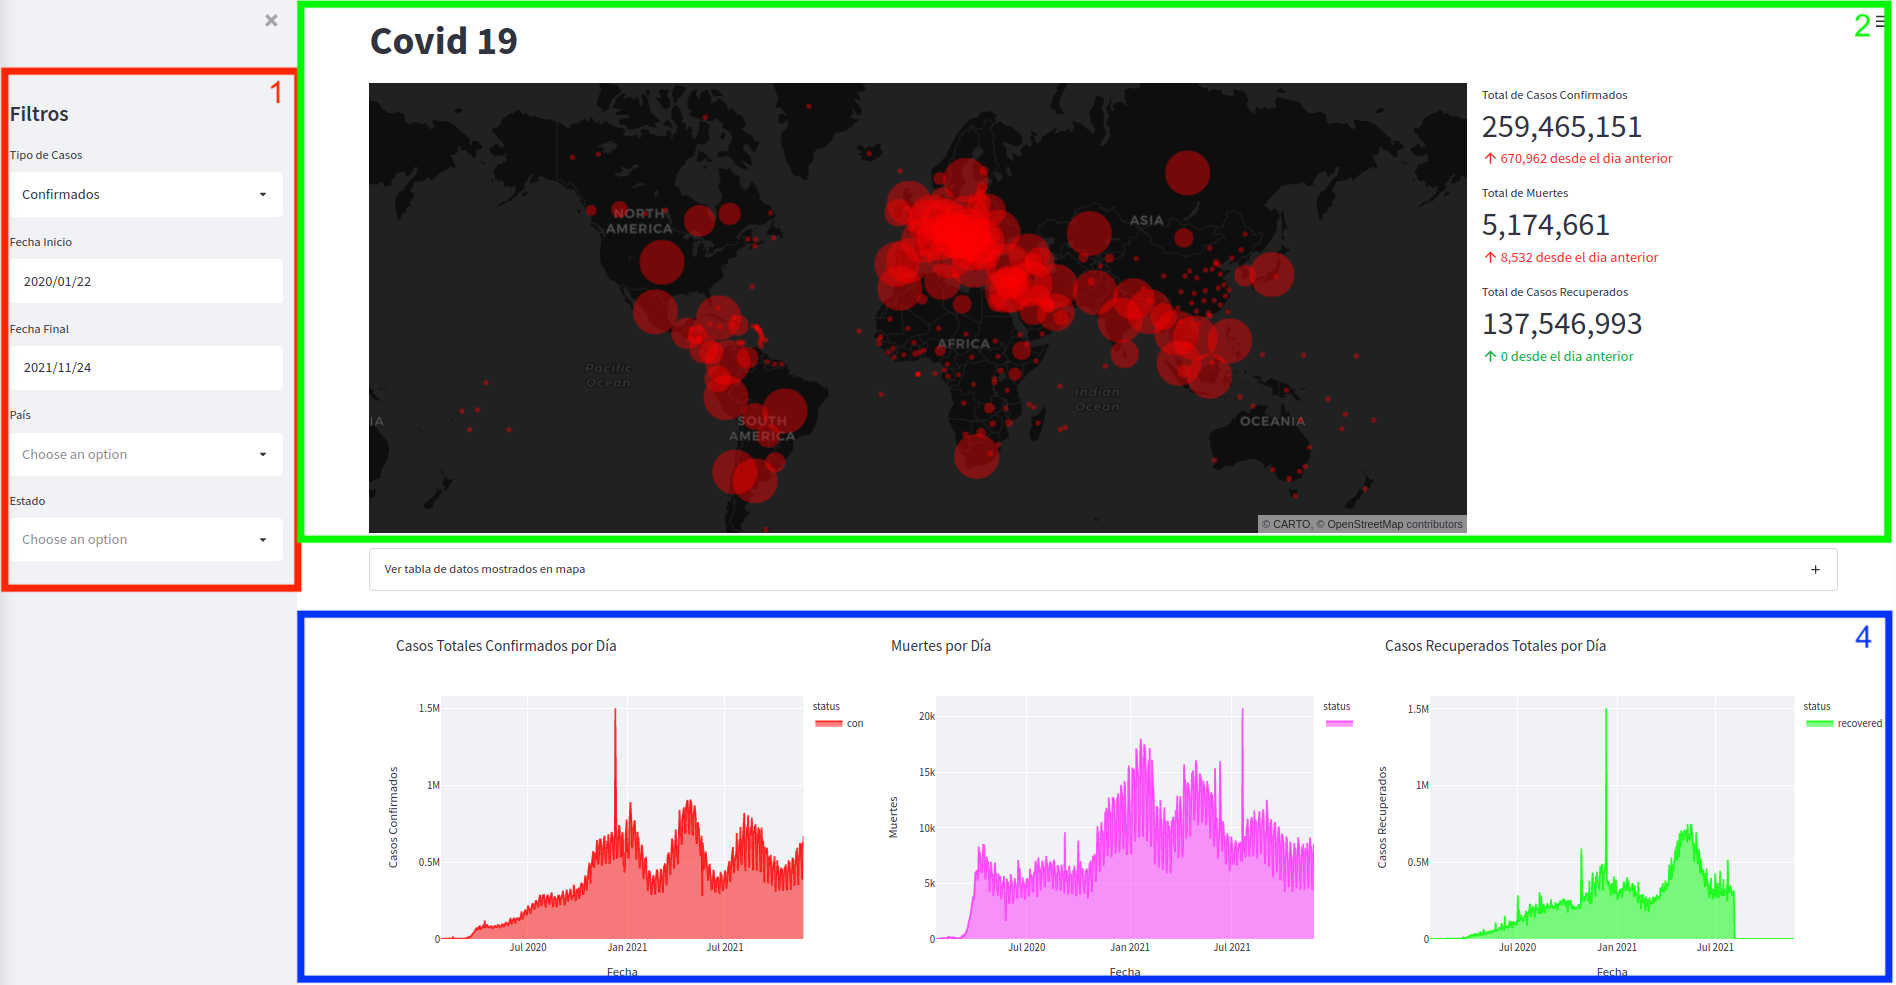
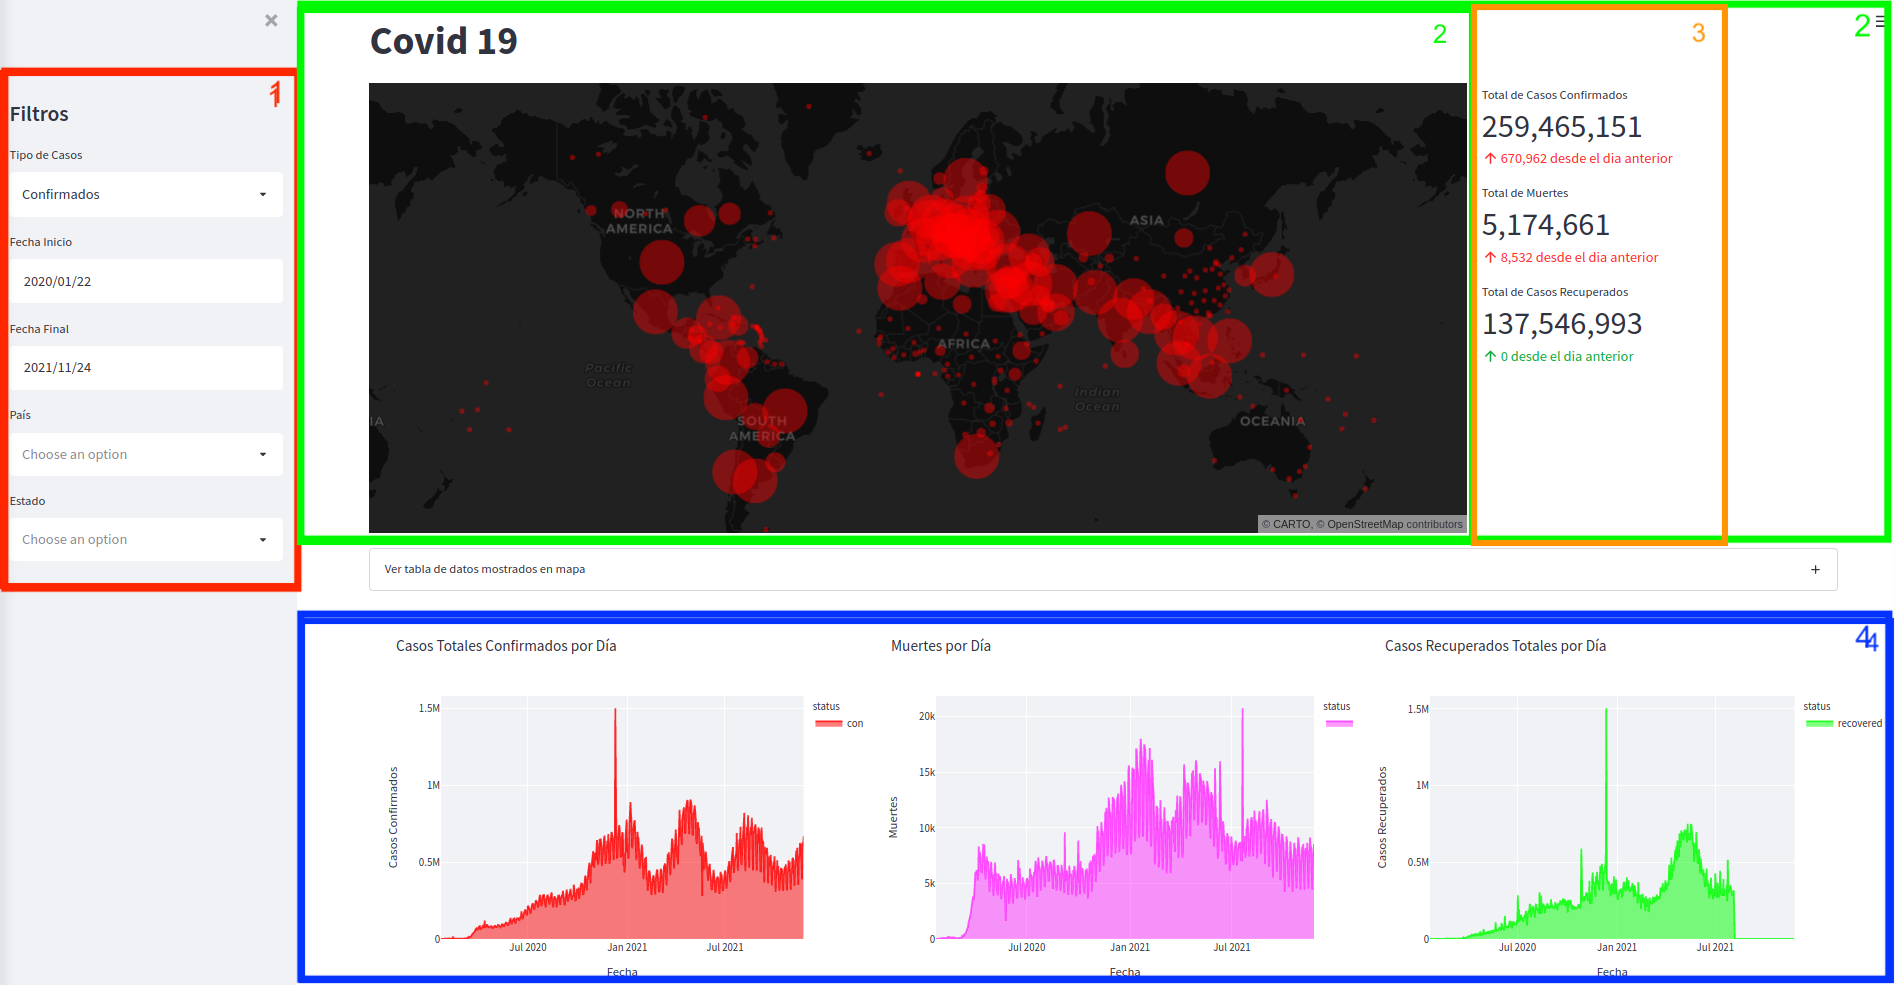
User doc

diff --git a/doc/user/user_manual.md b/doc/user/user_manual.md
@@ -31,13 +31,15 @@ Los filtros que se pueden realizar son:
 
 Se muestra en un mapa mundial los tipos de casos dentro de las fechas para el País y Estado seleccionados en los filtros, se muestra un punto de diferente color dependiendo del tipo de casos que se seleccionó y el tamaño del punto dependerá de la cantidad de casos que existan, mientras más casos sean mayor será el tamaño del punto. De forma interactiva al colocar el cursor sobre cada uno de los puntos en el mapa, se despliega la información.
 
-Se muestra a la derecha del mapa, los totales para cada tipo de caso y el cambio que ha existido respecto al día anterior ya sea incremento o decremento.
-
 ![](images/3.png)
 ![](images/4.png)
 
 
 ### 3. Métricas
+
+Se muestra a la derecha del mapa, los totales para cada tipo de caso y el cambio que ha existido respecto al día anterior ya sea incremento o decremento.
+
+![](images/8.png)
 
 
 ### 4. Gráficas
